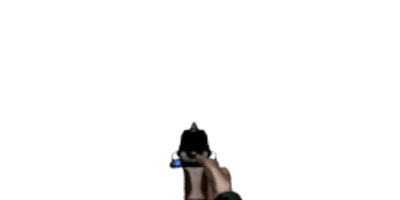
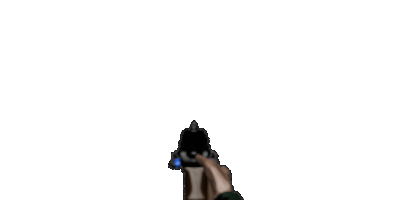
animation global render

diff --git a/game_render_full_ray.py b/game_render_full_ray.py
@@ -439,6 +439,7 @@ def thing_render(counter,counter2,a0,a1,x_perso,all_x_e,Im,S,all_RA,all_im_m,all
     f1=scrnL[0]*2/TAN2
     f2 = scrnL[1]*2 / TAN1
 
+    index_e = np.full((W, H), -1, dtype=np.int64)
 
     for i in range(len(all_x_e)):
         x_e=all_x_e[i]
@@ -495,7 +496,8 @@ def thing_render(counter,counter2,a0,a1,x_perso,all_x_e,Im,S,all_RA,all_im_m,all
                                     Im[ix,iy,0] = r
                                     Im[ix, iy, 1] = g
                                     Im[ix, iy, 2] = b
-    return Im
+                                    index_e[ix,iy]=i
+    return Im,index_e
 
 def source_pos(code):
     x = (int(code.split(',')[0]) - 50) * 2
@@ -1844,13 +1846,16 @@ class Thing():
         milliseconds.append(time.perf_counter()*1000)
         label_m.append('Ut')
         if shoot==1:
-            self.inline=True
+            self.inline=False
             self.shot = []
             x_d0=[]
             for i in range(len(x_d)):
                 # inline = min(np.sum(self.Ut[int(scrnL[0]*(1+2*x_d[i][0]) - gun_width):int(scrnL[0]*(1+2*x_d[i][0]) + gun_width), int(2 * scrnL[1]*(1+2*x_d[i][1]) // 2 - gun_width):int(2 * scrnL[1]*(1+2*x_d[i][1]) // 2 + gun_width)]),
                 #                 1)
-                inline=True
+
+                inline_e = index_e[int(2*scrnL[0]*(1+2*x_d[i][0]) - gun_width):int(2*scrnL[0]*(1+2*x_d[i][0]) + gun_width), int(2*2 * scrnL[1]*(1+2*x_d[i][1]) // 2 - gun_width):int(2*2 * scrnL[1]*(1+2*x_d[i][1]) // 2 + gun_width)]
+                inline=(inline_e==self.num).any()
+
                 self.inline=(self.inline or inline)
                 self.shot.append(i)
                 if not inline:
@@ -4461,7 +4466,7 @@ while running == 1:
     milliseconds.append(time.perf_counter()*1000)
     label_deltat.append('things')
 
-    Im = thing_render(c,c2,ang[0], ang[1], R_c, all_x_e, Im, S_i,all_RA,all_im_m,all_im_o,all_obj_mon,all_types_e,all_angle,all_ima_m,all_mort,all_attack_range,all_range)
+    Im,index_e = thing_render(c,c2,ang[0], ang[1], R_c, all_x_e, Im, S_i,all_RA,all_im_m,all_im_o,all_obj_mon,all_types_e,all_angle,all_ima_m,all_mort,all_attack_range,all_range)
 
     milliseconds.append(time.perf_counter()*1000)
     label_deltat.append('things_parallel')